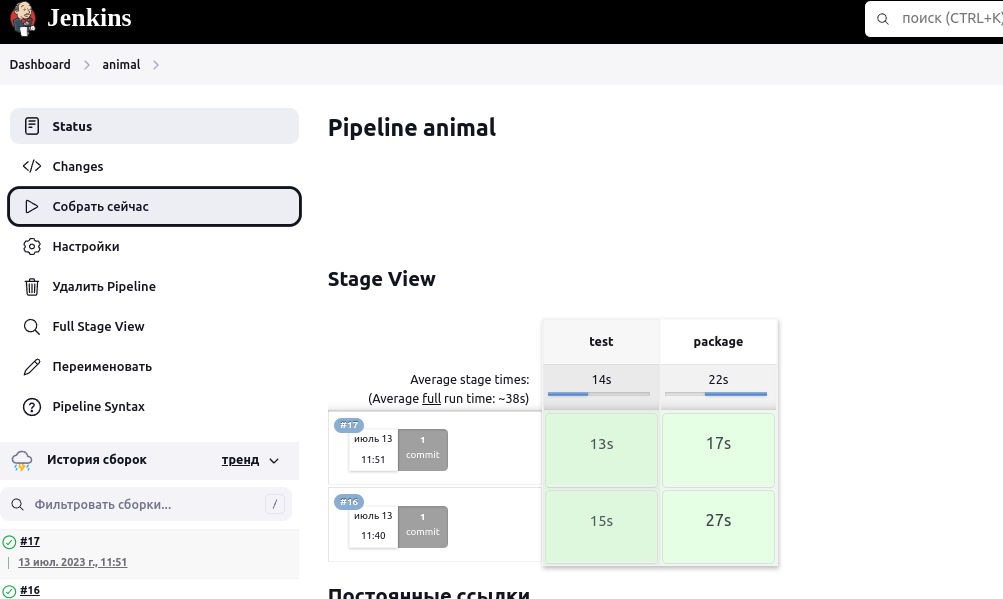
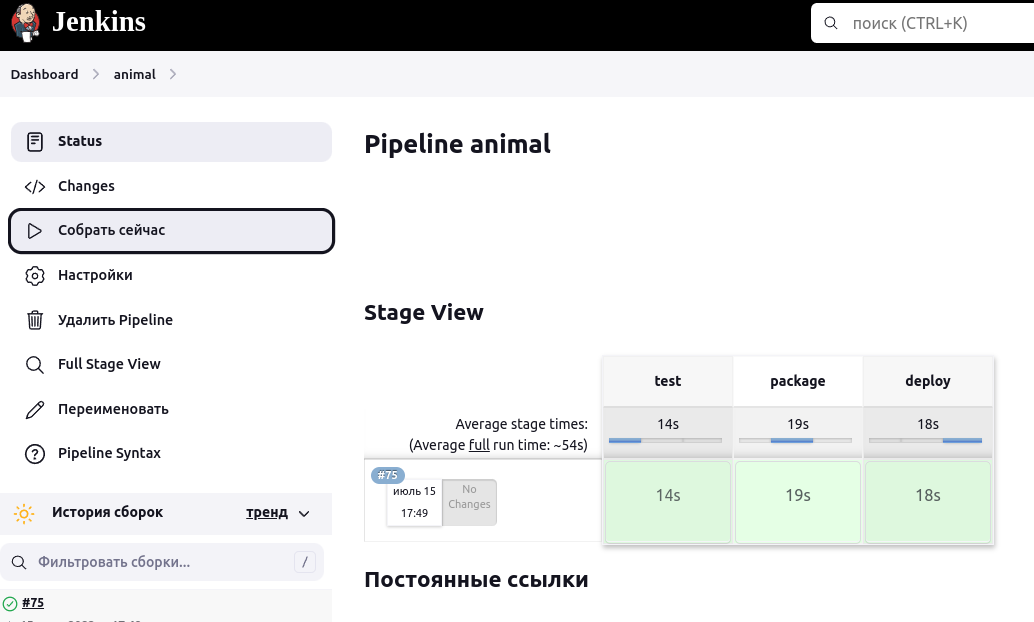
в jenkins_nexus_cicd.html pipeline сделал из 3 этапов "test, package, deploy"

diff --git a/test-integration-junit/jenkins_nexus_cicd.html b/test-integration-junit/jenkins_nexus_cicd.html
@@ -112,6 +112,12 @@ pipeline {
                 sh "mvn test"
             }
         }
+        stage('package') {
+            steps {
+                git url: 'https://github.com/cherepakhin/animals.git', branch: 'dev'
+                sh "mvn package"
+            }
+        }
         stage('deploy') {
             steps {
                 git url: 'https://github.com/cherepakhin/animals.git', branch: 'dev'
